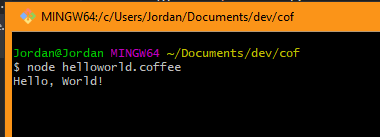
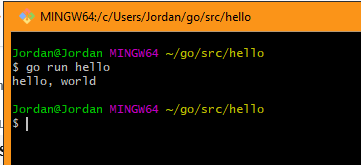
Add files via upload

Changed region(s): [[0.0, 0.0, 1.0, 1.0]]

diff --git a/helloworld.go b/helloworld.go
@@ -1,0 +1,7 @@
+package main
+
+import "fmt"
+
+func main() {
+	fmt.Printf("hello, world\n")
+}
